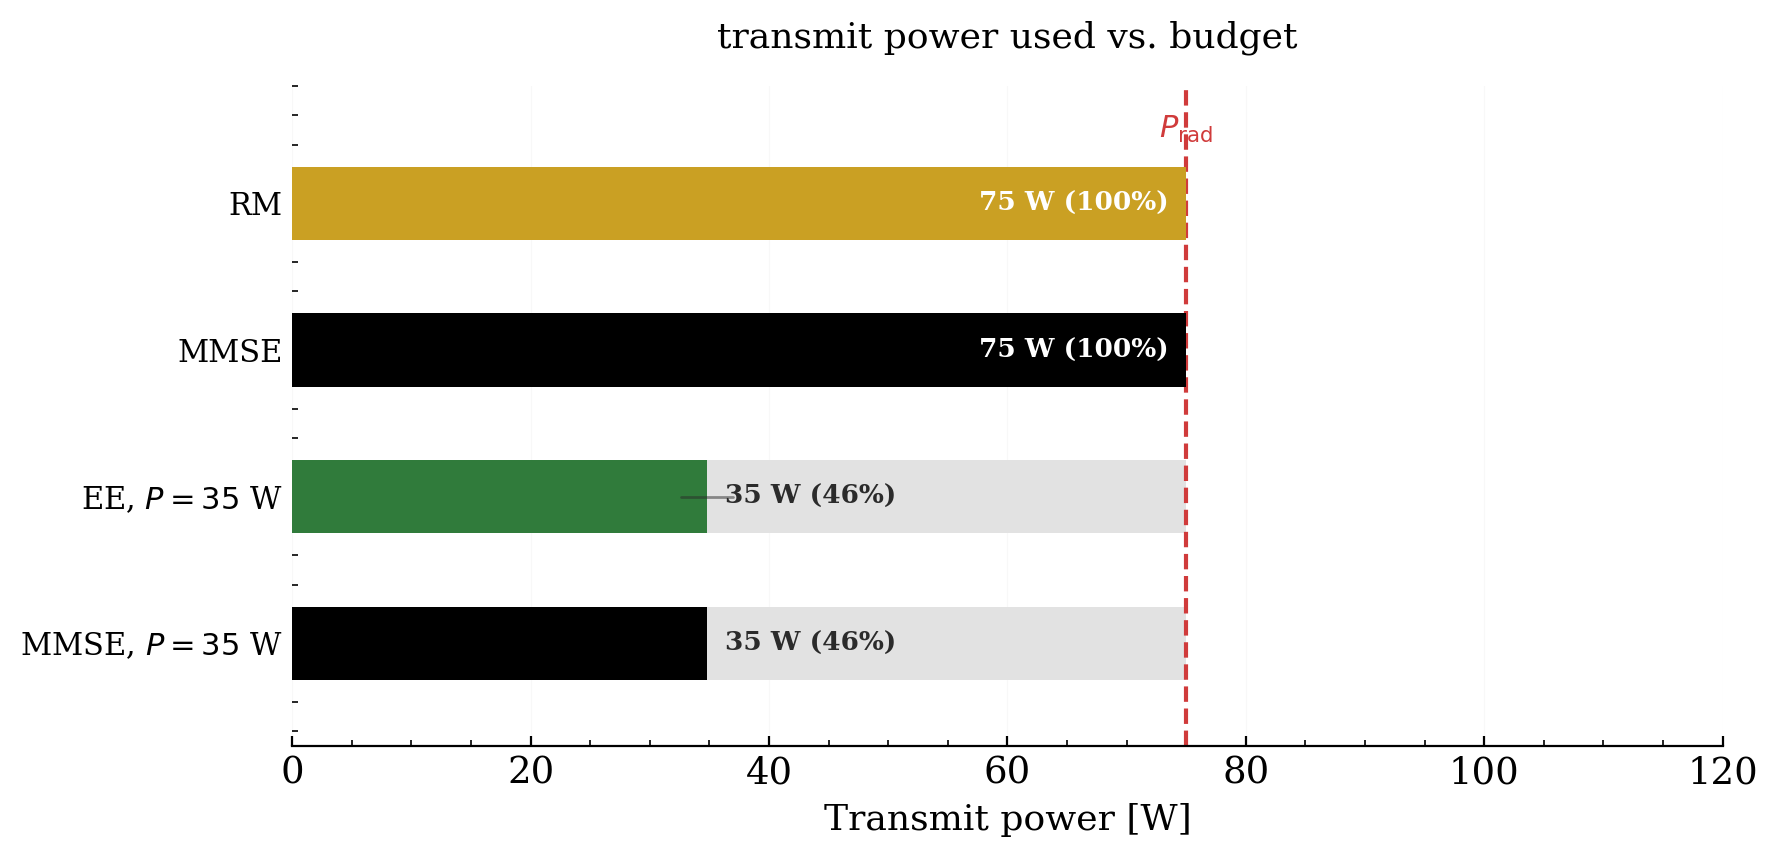
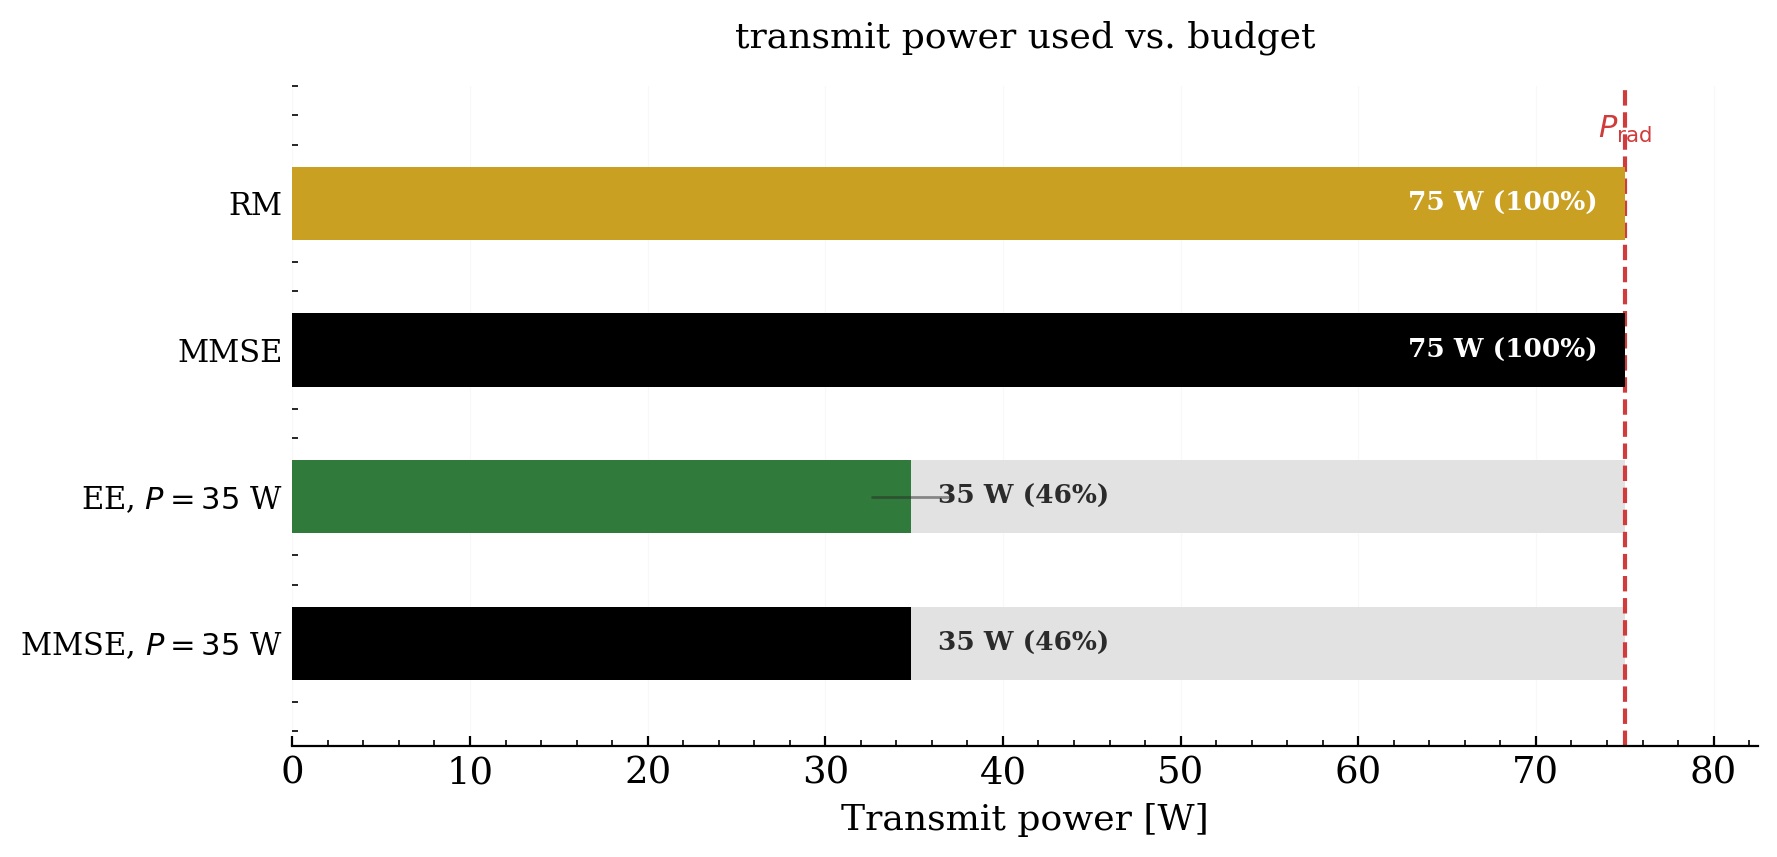
changes in figures

diff --git a/src/energy_efficiency/power_savings_bars_plot.py b/src/energy_efficiency/power_savings_bars_plot.py
@@ -74,7 +74,7 @@ def plot_power_savings_bars(
     ax.set_yticks(y_positions)
     ax.set_yticklabels(labels, fontsize=11)  # this chart's equivalent of a legend
     ax.set_xlabel('Transmit power [W]', fontsize=13)
-    ax.set_xlim(0, power_budget * 1.6)
+    ax.set_xlim(0, power_budget * 1.1)
     ax.set_ylim(-0.7, n - 1 + bar_height / 2 + 0.55)
     ax.spines['top'].set_visible(False)
     ax.spines['right'].set_visible(False)
